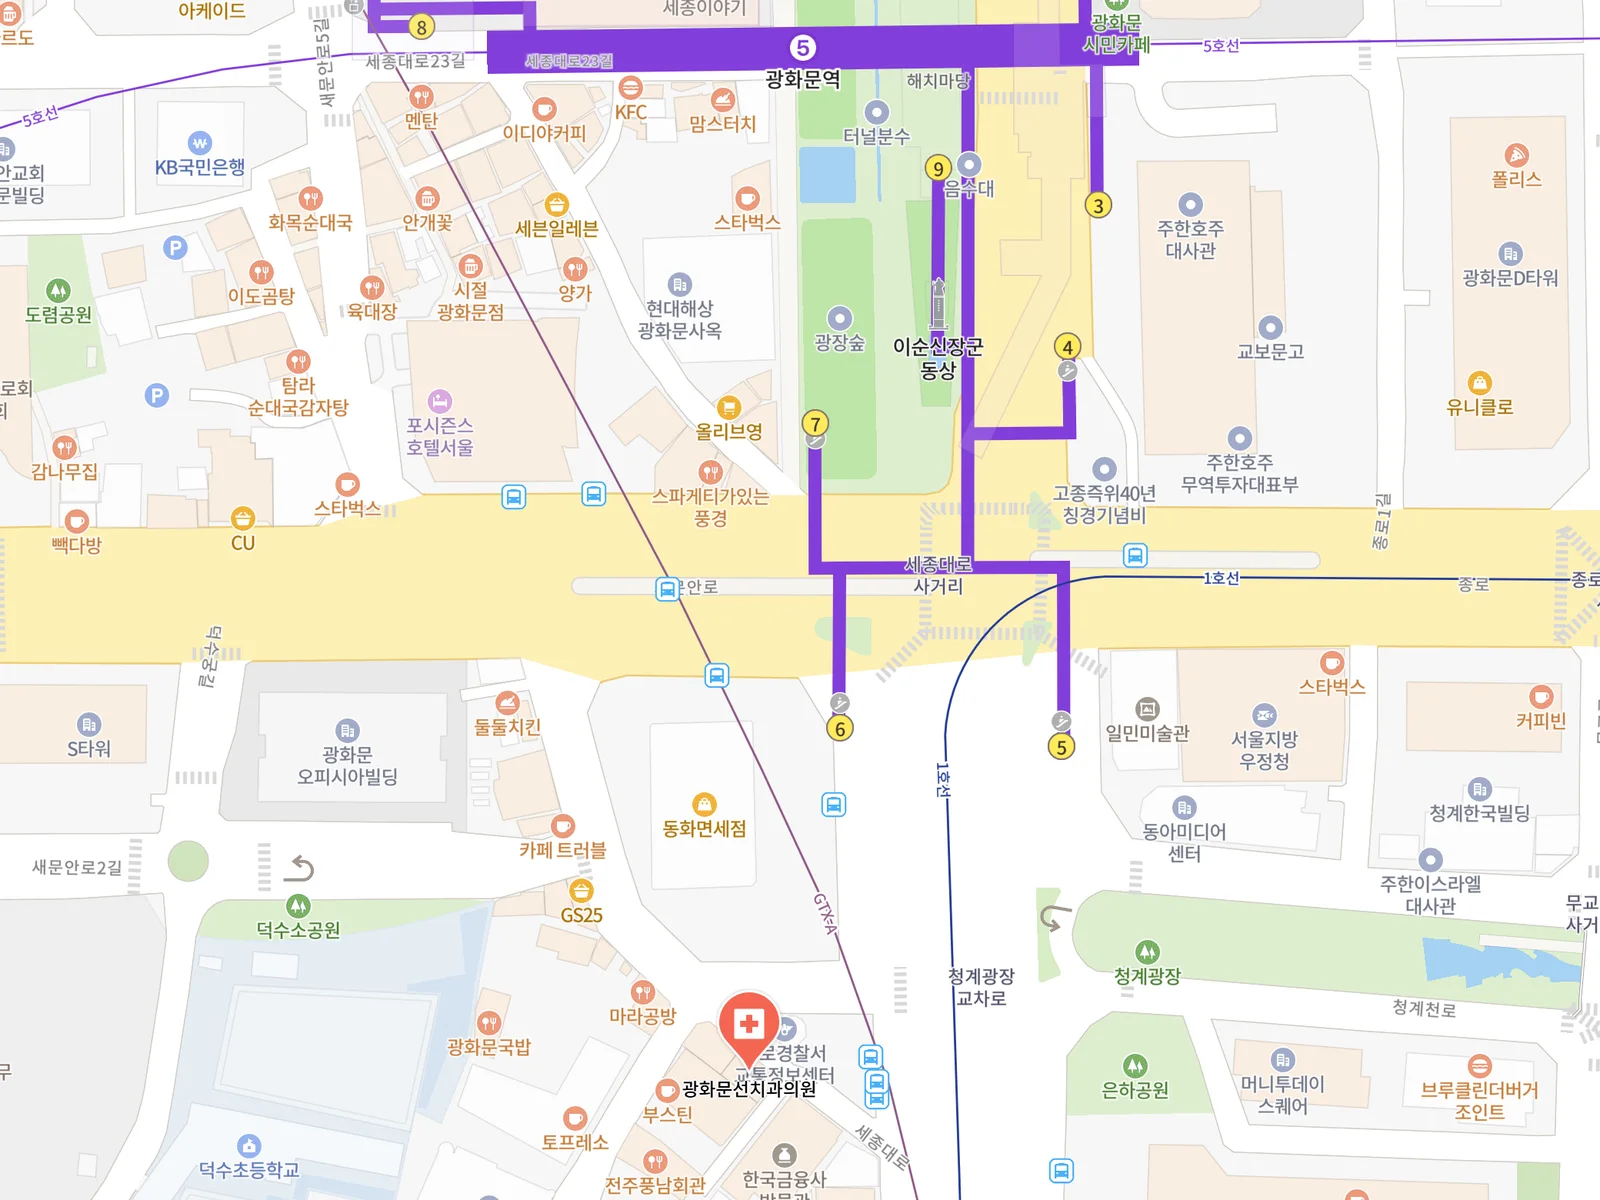
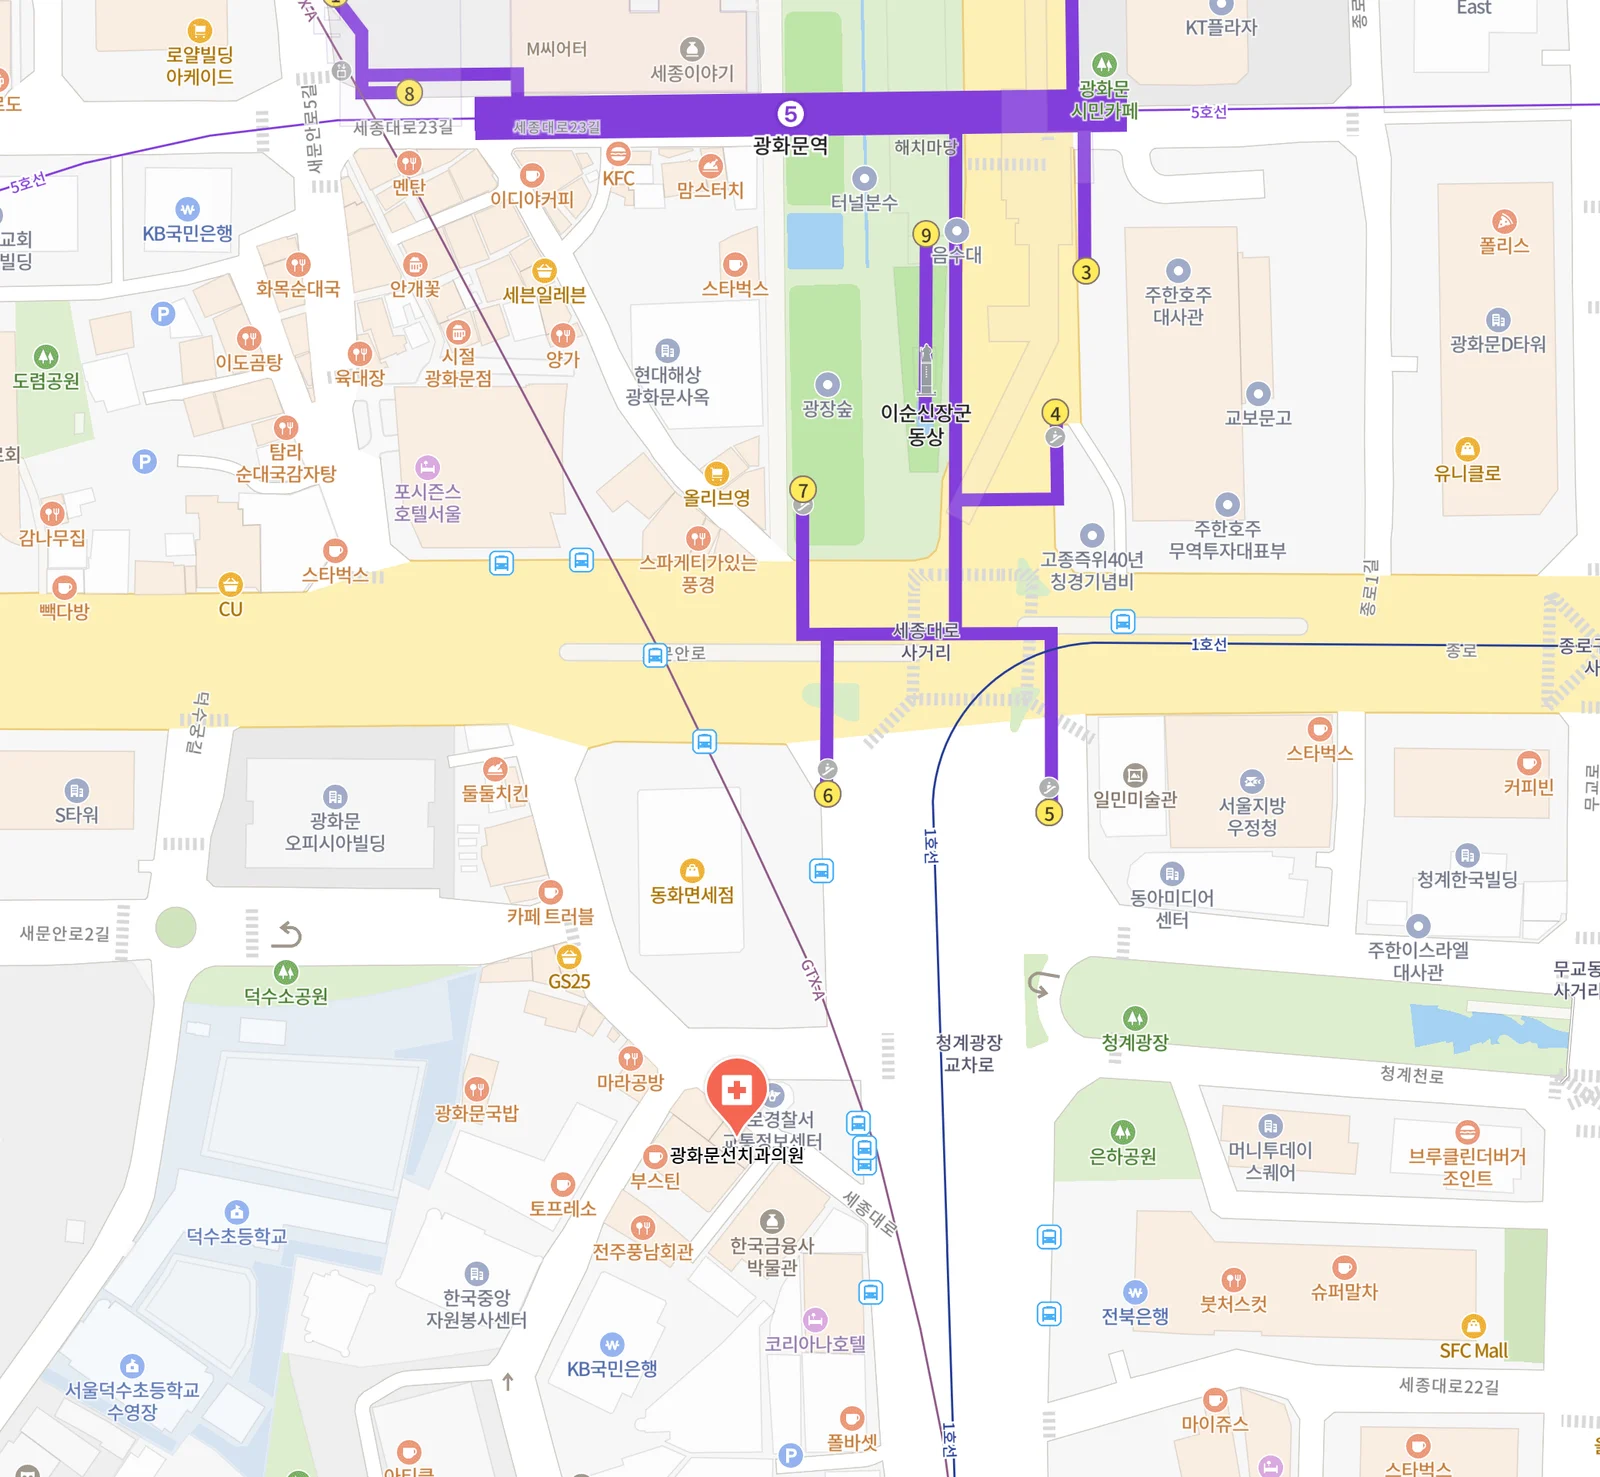
오시는 길 지도 다시 — 병원이 가운데 쪽(세로 70%)으로 오게 다시 찍음 · '광화문선치과의원' 꼬리표 · 열기 단추에 앱 로고
- 오너 "직접 더 잘 캡처, 광화문선치과의원 표시, 병원이 너무 아래라 조금 더 아래쪽으로" — 확대 17 그대로, 위로 광화문역 이름~아래로 병원 남쪽 골목까지(1040×960 의 2배).
- 꼬리표 두 개: 6번 출구(남색) · 광화문선치과의원(주황), 자리는 새 사진에서 직접 잼.
- 오너 "색 동그라미 말고 로고" — 네이버 지도·카카오맵(Wikimedia Commons 앱 아이콘)·구글 지도(구글 PWA 아이콘).

diff --git a/components/VisitMap.tsx b/components/VisitMap.tsx
@@ -5,18 +5,36 @@ import { figSrc } from '@/lib/docs';
 /**
  * 오시는 길 지도 — 2026-10-20 원장 PPT 105쪽 '광화문 6번출구 표시 되게 가능할까요' + 오너 "지도 자리엔 사진, 밑에 네이버·카카오·구글로 열기 버튼".
  * 구글 지도 끼워 넣기(iframe)에는 광화문역 6번 출구 번호가 안 나와서(3·4·7번만) 네이버 지도 장소 화면을 2배로 찍은 사진으로 바꿨다.
- *   원본: map.naver.com/p/entry/place/37932471 (확대 17, 광화문역 이름까지 보이게 지도를 240px 내림) → C:/tmp/sun-ppt-1019/navermap, 도구 tools/nmap3.mjs.
+ *   원본: map.naver.com/p/entry/place/37932471 (확대 17) — 오너 "병원이 너무 아래, 조금 더 아래쪽으로" → 병원 핀이 세로 70% 쯤,
+ *   위로 광화문역 이름까지. 도구 C:/tmp/sun-ppt-1019/tools/nmap4.mjs(잘라 낸 자리 navermap/crop4.json), 사진 1040×960 CSS px 의 2배.
  *   사진은 네이버 지도 저작물 — 아래 'ⓒ NAVER Corp.' 표기를 지우지 말 것.
- * 6번 출구 꼬리표는 사진 위 % 자리(사진 1040×780 기준 출구 원 546,470). 사진을 다시 찍으면 EXIT6 도 다시 잴 것.
+ * 꼬리표 자리는 사진 위 % — 6번 출구 원 가운데(537,517) · 병원 핀 머리 위(478,691). 사진을 다시 찍으면 두 자리를 다시 잴 것.
+ * 열기 단추 로고: 네이버 지도·카카오맵은 Wikimedia Commons 앱 아이콘, 구글 지도는 구글 PWA 아이콘(public/img/brand/*-app.webp).
  */
-const EXIT6 = { left: '52.5%', top: '60.3%' };
+const EXIT6 = { left: '51.7%', top: '53.9%' };
+const PIN = { left: '45.9%', top: '72%' };
+
+function Tag({ at, tone, children }: { at: { left: string; top: string }; tone: 'navy' | 'sun'; children: React.ReactNode }) {
+  const bg = tone === 'navy' ? 'bg-brand-700' : 'bg-sun-500';
+  const tip = tone === 'navy' ? 'border-t-brand-700' : 'border-t-sun-500';
+  return (
+    <span
+      aria-hidden
+      className={`absolute -translate-x-1/2 -translate-y-[calc(100%+12px)] whitespace-nowrap rounded-full ${bg} px-3 py-1.5 text-[12.5px] font-bold text-white shadow-[var(--shadow-lift)] md:text-[14px]`}
+      style={at}
+    >
+      {children}
+      <span className={`absolute left-1/2 top-full h-0 w-0 -translate-x-1/2 border-x-[7px] border-t-[8px] border-x-transparent ${tip}`} />
+    </span>
+  );
+}
 
 export function VisitMap({ className = '' }: { className?: string }) {
   const q = encodeURIComponent(`${CLINIC.name} ${CLINIC.address.full}`);
   const links = [
-    { label: '네이버 지도로 열기', href: CLINIC.maps.naverPlace, dot: 'bg-[#03C75A]' },
-    { label: '카카오맵으로 열기', href: CLINIC.maps.kakaoPlace, dot: 'bg-[#FEE500]' },
-    { label: '구글 지도로 열기', href: `https://www.google.com/maps/search/?api=1&query=${q}`, dot: 'bg-[#4285F4]' },
+    { label: '네이버 지도로 열기', href: CLINIC.maps.naverPlace, logo: 'brand/naver-map-app' },
+    { label: '카카오맵으로 열기', href: CLINIC.maps.kakaoPlace, logo: 'brand/kakao-map-app' },
+    { label: '구글 지도로 열기', href: `https://www.google.com/maps/search/?api=1&query=${q}`, logo: 'brand/google-maps-app' },
   ];
   return (
     <div className={`card flex flex-col overflow-hidden ${className}`}>
@@ -25,23 +43,17 @@ export function VisitMap({ className = '' }: { className?: string }) {
           src={figSrc('place/naver-map')}
           alt="광화문역 6번 출구에서 동화면세점을 지나 남쪽으로 약 170m, 광화문선치과의원 위치를 표시한 지도"
           width={1600}
-          height={1200}
+          height={1477}
           sizes="(max-width: 1023px) 100vw, 780px"
           className="h-auto w-full"
         />
-        <span
-          aria-hidden
-          className="absolute -translate-x-1/2 -translate-y-[calc(100%+14px)] whitespace-nowrap rounded-full bg-brand-700 px-3 py-1.5 text-[13px] font-bold text-white shadow-[var(--shadow-lift)] md:text-[14px]"
-          style={EXIT6}
-        >
-          광화문역 6번 출구 · 도보 2분
-          <span className="absolute left-1/2 top-full h-0 w-0 -translate-x-1/2 border-x-[7px] border-t-[8px] border-x-transparent border-t-brand-700" />
-        </span>
+        <Tag at={EXIT6} tone="navy">광화문역 6번 출구 · 도보 2분</Tag>
+        <Tag at={PIN} tone="sun">광화문선치과의원</Tag>
       </a>
       <div className="flex flex-wrap gap-2 border-t border-hairline p-4">
         {links.map((l) => (
-          <a key={l.label} href={l.href} target="_blank" rel="noopener" className="pill gap-2 !px-4 !py-2 !text-[14px] !text-ink hover:border-brand-300">
-            <span aria-hidden className={`h-2.5 w-2.5 rounded-full ${l.dot}`} />
+          <a key={l.label} href={l.href} target="_blank" rel="noopener" className="pill gap-2 !py-1.5 !pl-2 !pr-4 !text-[14px] !text-ink hover:border-brand-300">
+            <Image src={figSrc(l.logo)} alt="" width={24} height={24} className="h-6 w-6 rounded-[6px]" />
             {l.label}
           </a>
         ))}
